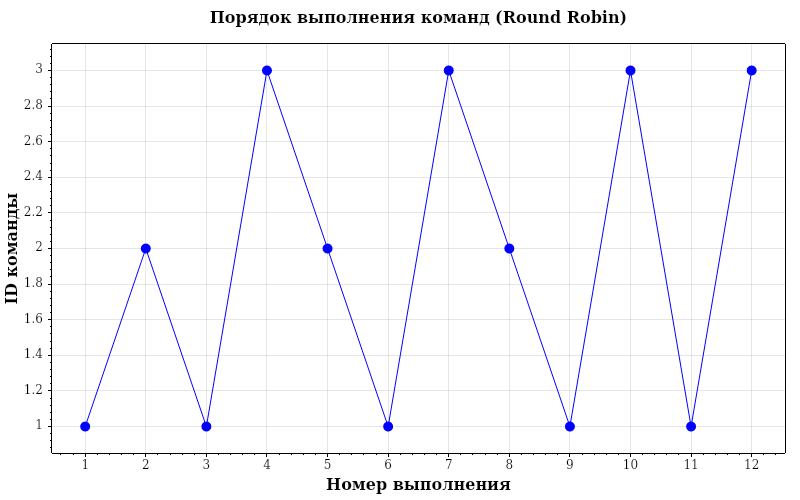
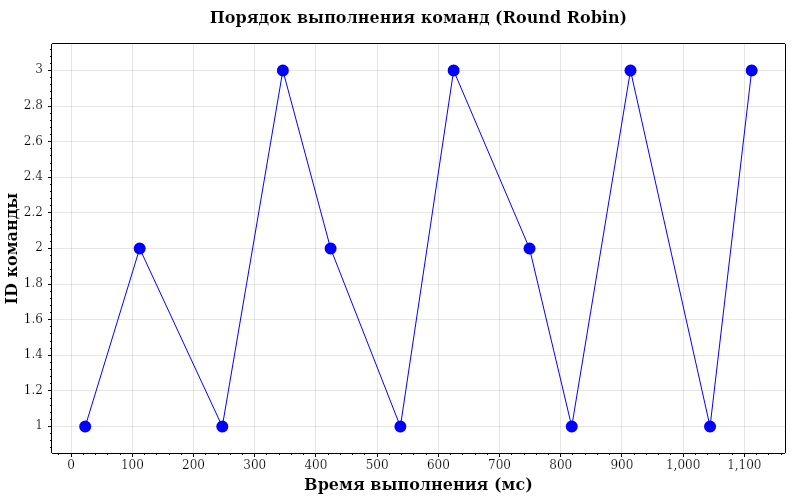
fix(task18): исправлен график

diff --git a/task18/ReportGenerator.cs b/task18/ReportGenerator.cs
@@ -62,7 +62,7 @@ public static class ReportGenerator
         sw.Stop();
         for (int i = 0; i < log.Count; i++)
         {
-            times.Add(i * 100 + new Random().Next(10, 50)); // примерные времена
+            times.Add(i * 100 + new Random().Next(10, 50)); 
         }
 
         var plot = new ScottPlot.Plot();
@@ -77,7 +77,7 @@ public static class ReportGenerator
         plot.XLabel("Время выполнения (мс)");
         plot.YLabel("ID команды");
         plot.Grid.IsVisible = true;
-        plot.SavePng("execution_graph.png", 800, 500);
+        plot.SavePng("executiongraph.png", 800, 500);
         SaveReport(log, sw.Elapsed.TotalMilliseconds);
     }
 
